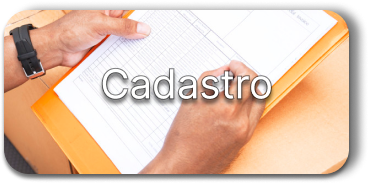
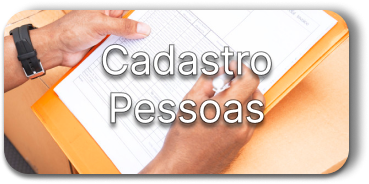
Telas Configurações

Changed region(s): [[0.2683, 0.2174, 0.7453, 0.7065]]

diff --git a/src/controller/ControllerConfiguaracoesVisualizar.java b/src/controller/ControllerConfiguaracoesVisualizar.java
@@ -38,4 +38,68 @@ public class ControllerConfiguaracoesVisualizar {
 		}
 	}
 	
+	public void irInicial() {
+		try {
+			Telas.telaInicial();
+		} catch (Exception e) {
+			e.printStackTrace();
+		}
+	}
+	
+	public void irVendas() {
+		try {
+			Telas.telaVendas();
+		} catch (Exception e) {
+			e.printStackTrace();
+		}
+	}
+	
+	public void irHistorico() {
+		try {
+			Telas.telaHistorico();
+		} catch (Exception e) {
+			e.printStackTrace();
+		}
+	}
+	
+	public void irEntrada() {
+		try {
+			Telas.telaEntrada();
+		} catch (Exception e) {
+			e.printStackTrace();
+		}
+	}
+	
+	public void irEstoque() {
+		try {
+			Telas.telaEstoque();
+		} catch (Exception e) {
+			e.printStackTrace();
+		}
+	}
+	
+	public void irRelatorio() {
+		try {
+			Telas.telaRelatorio();
+		} catch (Exception e) {
+			e.printStackTrace();
+		}
+	}
+	
+	public void irCadastro() {
+		try {
+			Telas.telaCadastroPessoas();
+		} catch (Exception e) {
+			e.printStackTrace();
+		}
+	}
+	
+	public void irConfiguracoesEditar() {
+		try {
+			Telas.ConfiguaracoesEditar();
+		} catch (Exception e) {
+			e.printStackTrace();
+		}
+	}
+	
 }

diff --git a/src/controller/ControllerRelatorio.java b/src/controller/ControllerRelatorio.java
@@ -227,7 +227,7 @@ public class ControllerRelatorio {
 	
 	public void irCadastro() {
 		try {
-			//Telas.telaEntrada();
+			Telas.telaCadastroPessoas();
 		} catch (Exception e) {
 			e.printStackTrace();
 		}
@@ -236,6 +236,14 @@ public class ControllerRelatorio {
 	public void irConfiguracoes() {
 		try {
 			Telas.ConfiguaracoesVisualizar();
+		} catch (Exception e) {
+			e.printStackTrace();
+		}
+	}
+	
+	public void irConfiguracoesEditar() {
+		try {
+			Telas.ConfiguaracoesEditar();
 		} catch (Exception e) {
 			e.printStackTrace();
 		}

diff --git a/src/exception/ExceptionMensagem.java b/src/exception/ExceptionMensagem.java
@@ -1,0 +1,10 @@
+package exception;
+
+import view.Telas;
+
+public class ExceptionMensagem extends RuntimeException {
+
+	public ExceptionMensagem(String mensagem) {
+		super(mensagem);
+	}
+}

diff --git a/src/controller/ControllerCadastrarPessoas.java b/src/controller/ControllerCadastrarPessoas.java
@@ -1,0 +1,5 @@
+package controller;
+
+public class ControllerCadastrarPessoas {
+
+}
